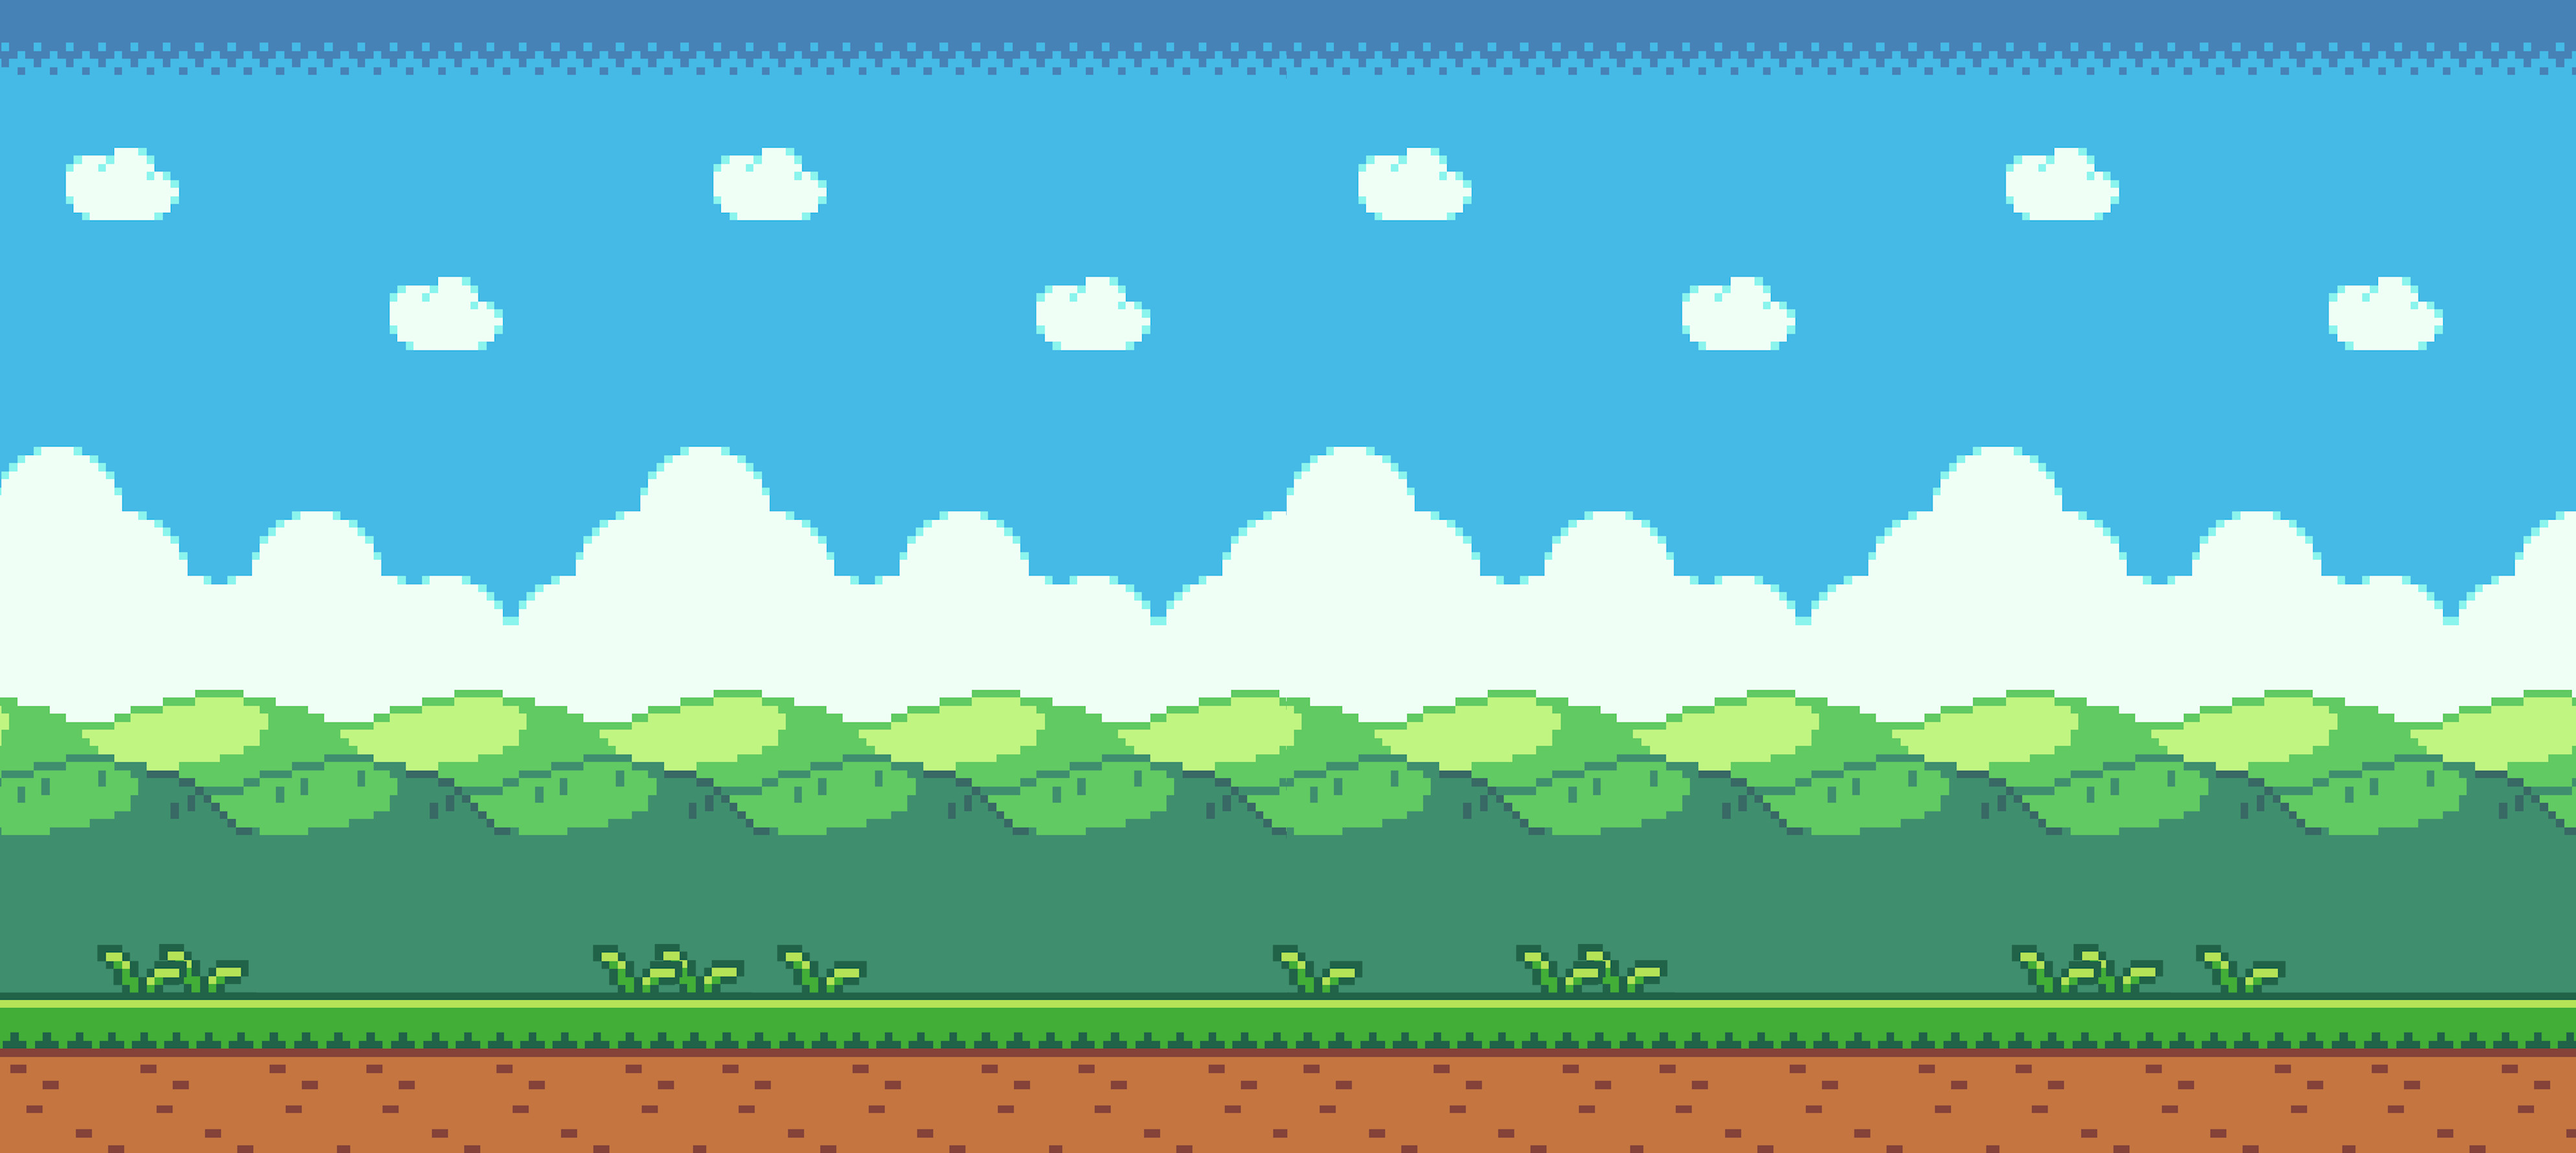
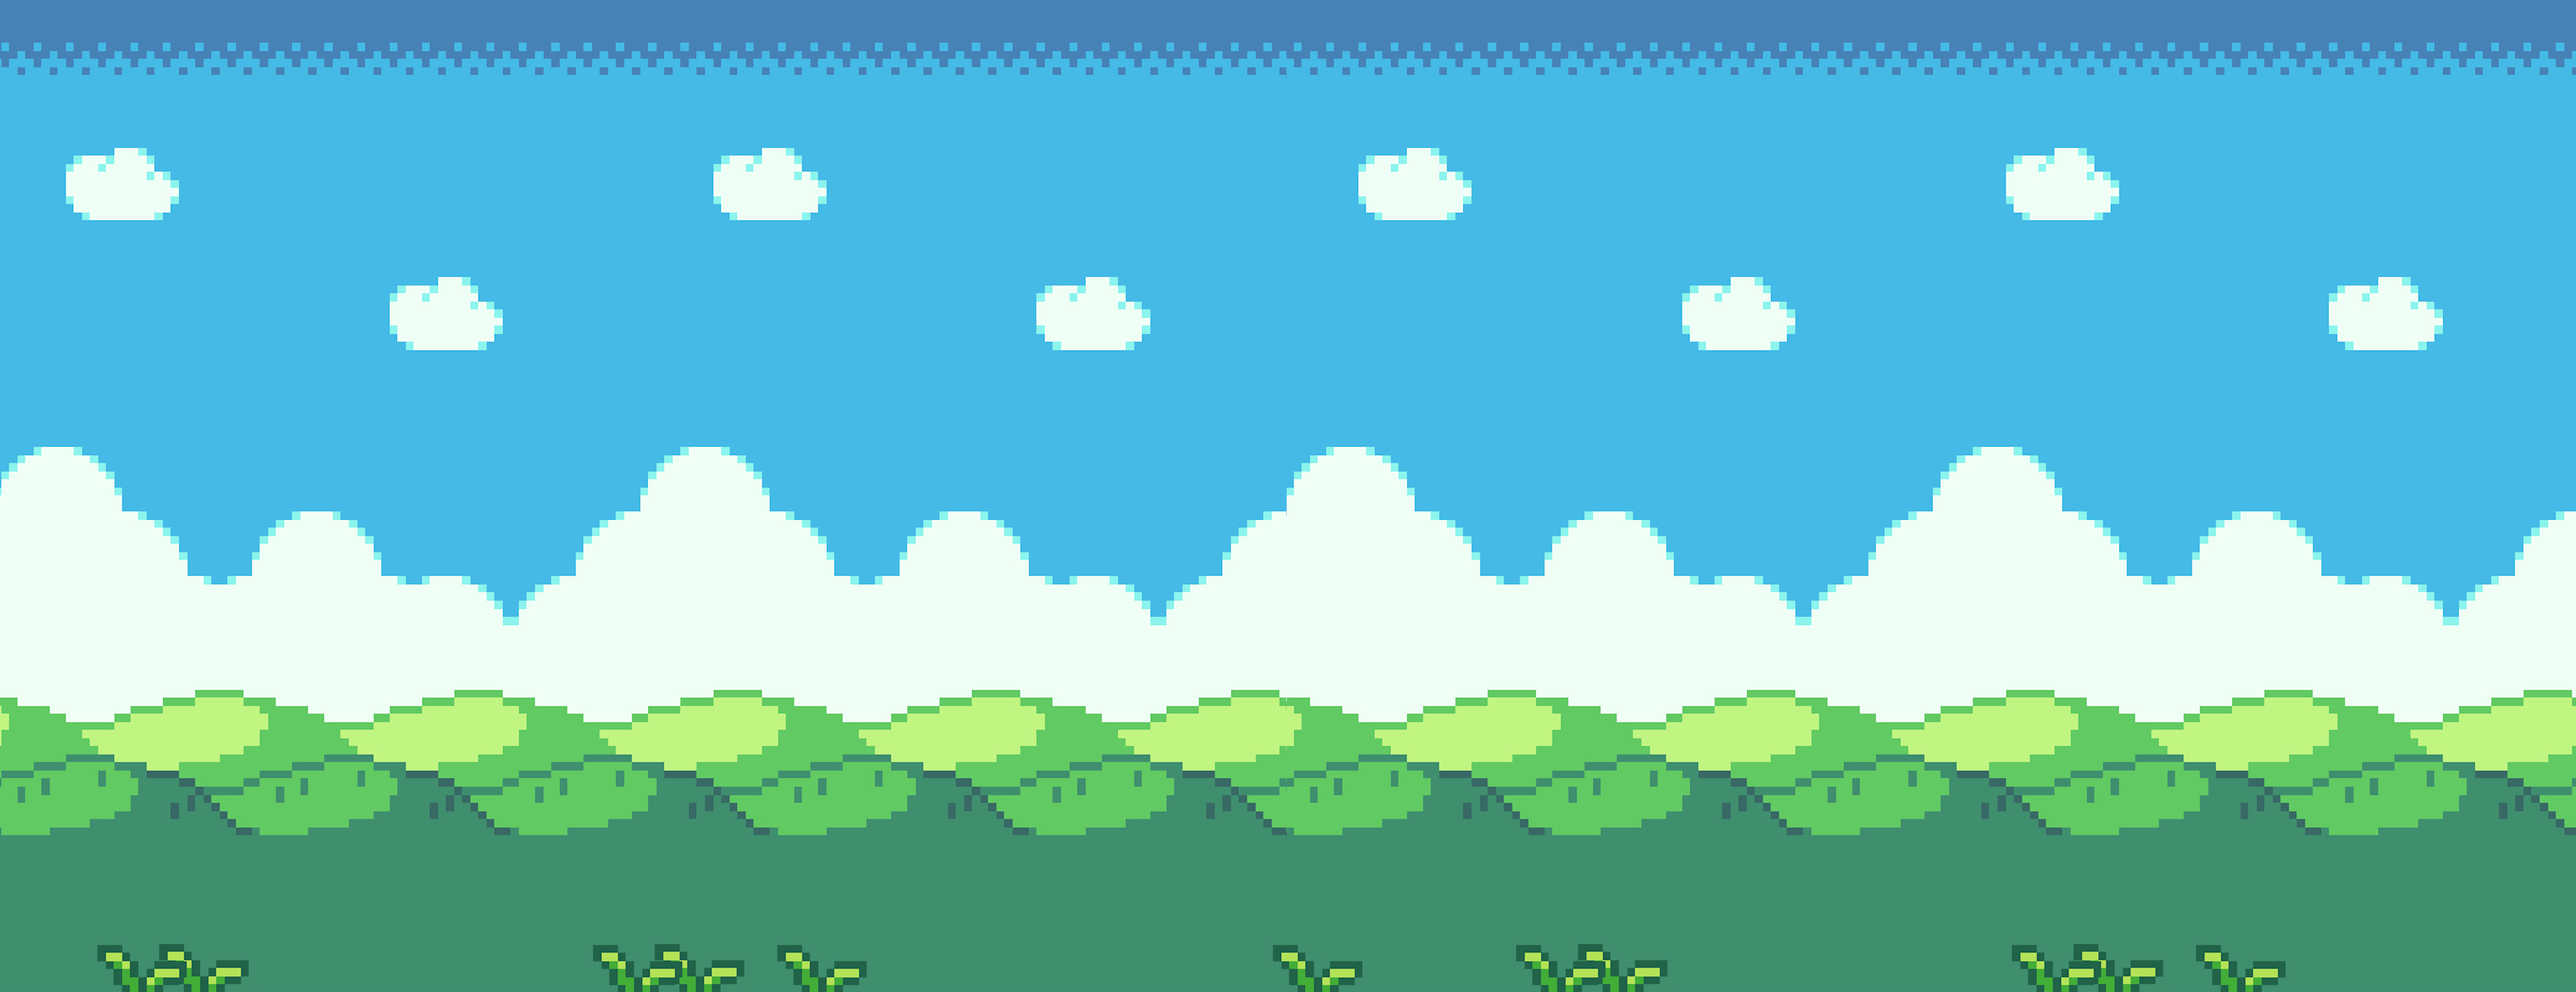
taustaa fiksattu mobiilia varten

diff --git a/Index.html b/Index.html
@@ -114,7 +114,7 @@
 
         #maisema {
             width: 100vw;
-            height: 100vh;
+            height: 85vh;
             background: url("img/tausta.jpg");
             background-size: cover;
             position: fixed;
